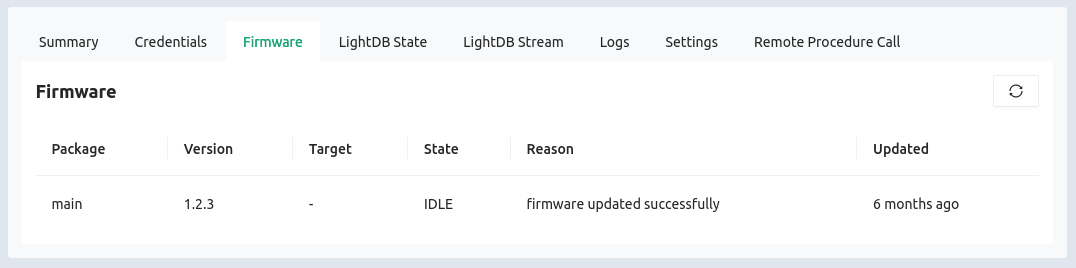
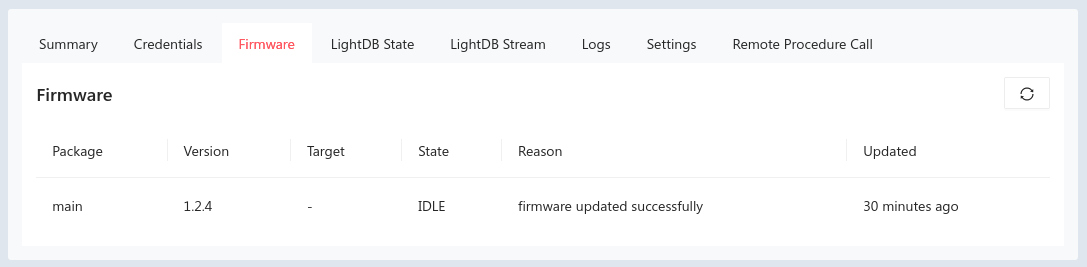
firmware: zephyr OTA: update for new symbol
Update the Zephyr SDK OTA walkthrough to use the new
CONFIG_GOLIOTH_SAMPLE_FW_VERSION for version numbers

diff --git a/docs/firmware/zephyr-device-sdk/firmware-upgrade/2-build-sample-application.md b/docs/firmware/zephyr-device-sdk/firmware-upgrade/2-build-sample-application.md
@@ -20,8 +20,8 @@ updated firmware version and report the results to the Golioth Console.
 
 ### OTA Update Sample Workflow
 
-1. Build and flash the initial DFU sample application
-2. Use the serial shell to set the device credentials
+1. Set credentials for the device
+2. Build and flash the initial DFU sample application
 3. Rebuild the firmware with new version number (the update)
 4. Upload the signed/versioned firmware as an artifact
 5. Create a release from the artifact and roll it out to the device
@@ -29,58 +29,28 @@ updated firmware version and report the results to the Golioth Console.
 
 ## Running the OTA Sample
 
-### 1. Initial build and flash
+### 1. Set credentials for the device
 
-Navigate to the Golioth module in your zephyr install. If you followed [our
-nRF9160 Zephyr Quickstart](/hardware/nrf91/zephyr-quickstart) this will be in
-the `golioth-ncs-workspace/module/lib/golioth` directory. Build and flash the
-sample code.
+:::note Credential Storage
 
-```bash
-west build -b nrf9160dk_nrf9160_ns samples/dfu -p
-west flash
-```
-
-This will build and run `v0.0.0` firmware on the Nordic nRF9160 development kit.
-
-:::note Building and flashing MCUboot to other devices
-
-Images for Nordic targets are automatically signed during the build process and
-do not require an extra manual step for signing.
-
-<details><summary>Click to reveal details on MCUboot and signing binaries</summary>
-
-The README in the Golioth DFU sample discusses [building MCUBoot for other architectures](https://github.com/golioth/golioth-zephyr-sdk/tree/main/samples/dfu#using-with-zephyr).
-
-Signing application code is also discussed in the sample's README. It should
-follow a process similar to the following:
-
-```bash
-# After building your app image, sign the binary:
-west sign -t imgtool -- --key WEST_ROOT/bootloader/mcuboot/root-rsa-2048.pem
-# Flash a signed app to a device already running the MCUboot bootloader:
-west flash --bin-file build/zephyr/zephyr.signed.bin --hex-file build/zephyr/zephyr.signed.hex
-```
-
-</details>
+By default, the Golioth DFU sample hardcodes PSK device credentials in the
+compiled binary. However, hardcoded certificate credentials and runtime PSK
+credentials are also supported. View the [readme for this
+sample](https://github.com/golioth/golioth-zephyr-sdk/tree/main/samples/dfu#authentication-specific-configuration)
+for details.
 
 :::
 
-### 2. Pass credentials to the device
+Navigate to the Golioth module in your zephyr install. If you followed [our
+nRF9160 Zephyr Quickstart](/hardware/nrf91/zephyr-quickstart) this will be in
+the `golioth-ncs-workspace/module/lib/golioth` directory.
 
-The Golioth DFU sample stores the device credentials in the settings partition
-of device. Use a serial terminal to connect to the nRF9160dk. The `settings set` command should be used to set `golioth/psk-id` and `golioth/psk`.
+Update the sample project `samples/dfu/prj.conf` file with you device
+credentials:
 
-You will receive confirmation after setting each of these values:
-
-```bash
-uart:~$ settings set golioth/psk-id my-device@my-project
-Setting golioth/psk-id to my-device@my-project
-Setting golioth/psk-id saved as my-device@my-project
-uart:~$ settings set golioth/psk my_strong_password
-Setting golioth/psk to my_strong_password
-Setting golioth/psk saved as my_strong_password
-uart:~$
+```cfg
+CONFIG_GOLIOTH_SAMPLE_HARDCODED_PSK_ID="my-psk-id"
+CONFIG_GOLIOTH_SAMPLE_HARDCODED_PSK="my-psk"
 ```
 
 :::tip Where do I find my device credentials?
@@ -88,14 +58,42 @@ Credentials can be copied from the Device details page in the [Golioth
 Console](https://console.golioth.io).
 :::
 
-### 3. Rebuild firmware with new version number
+### 2. Initial build and flash
 
-Now build the application a second time. Adding the
-`-DCONFIG_MCUBOOT_IMAGE_VERSION` flag incorporates a new version number in the
-firmware.
+Build and flash the sample code.
 
 ```bash
-west build -p -b nrf9160dk_nrf9160_ns samples/dfu -- -DCONFIG_MCUBOOT_IMAGE_VERSION=\"1.2.3\"
+west build -b nrf9160dk_nrf9160_ns samples/dfu -p
+west flash
+```
+
+This will build and run `v1.2.3` firmware on the Nordic nRF9160 development kit.
+
+:::info Building and flashing MCUboot to other devices
+
+The nRF9160 build tools handle the bootloader and image signing in a different
+way from other boards. In most other cases, you should use the `--sysbuild`
+command when building the DFU sample:
+
+```bash
+$ west build -b <board> --sysbuild samples/dfu
+$ west flash
+```
+
+:::
+
+### 3. Rebuild firmware with new version number
+
+Now give your firmware a new version number by editing `samples/dfu/prj.conf` and updating the version as follow:
+
+```cfg
+CONFIG_GOLIOTH_SAMPLE_FW_VERSION="1.2.4"
+```
+
+Build the application a second time.
+
+```bash
+west build -p -b nrf9160dk_nrf9160_ns samples/dfu --
 ```
 
 :::note
@@ -115,6 +113,13 @@ to create an artifact on the Golioth Console.
    box
 4. Click the upload icon and choose your app_update.bin file
 5. Click `Upload Artifact`
+
+:::info Binary Location for other Boards
+
+When building for a board that is not the nRF9160, the new binary will be
+located at `build/dfu/zephyr/zephyr.signed.bin`
+
+:::
 
 ### 5. Create a release and rollout the firmware update
 
